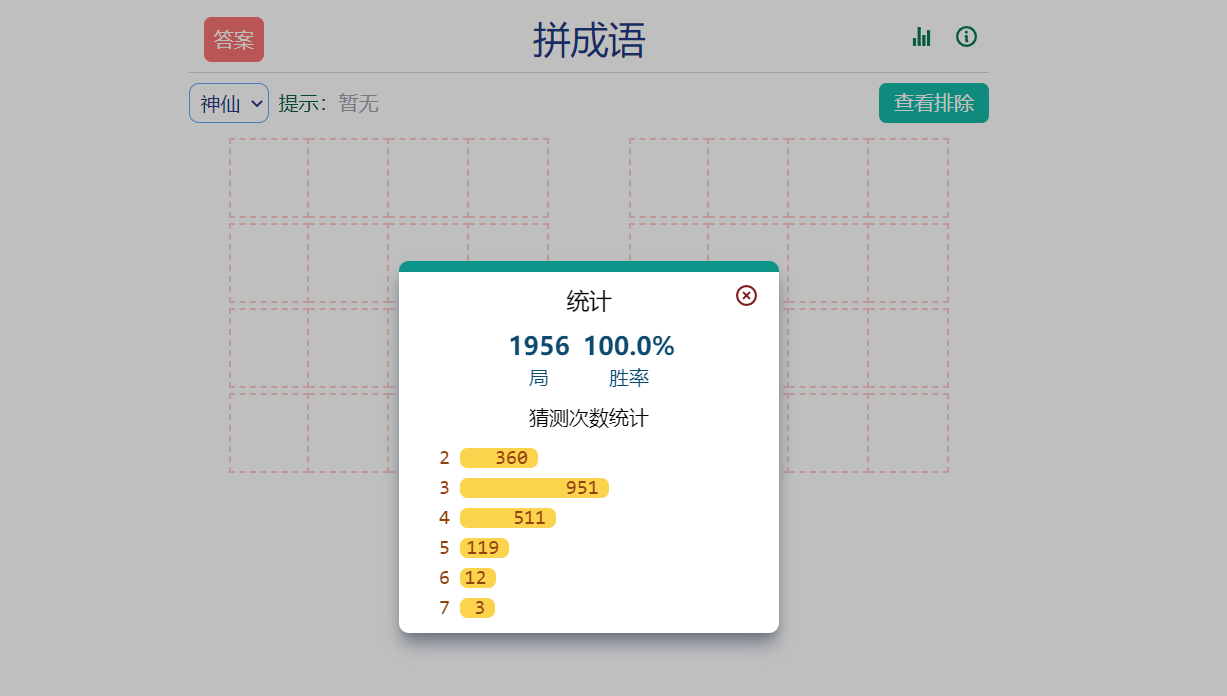
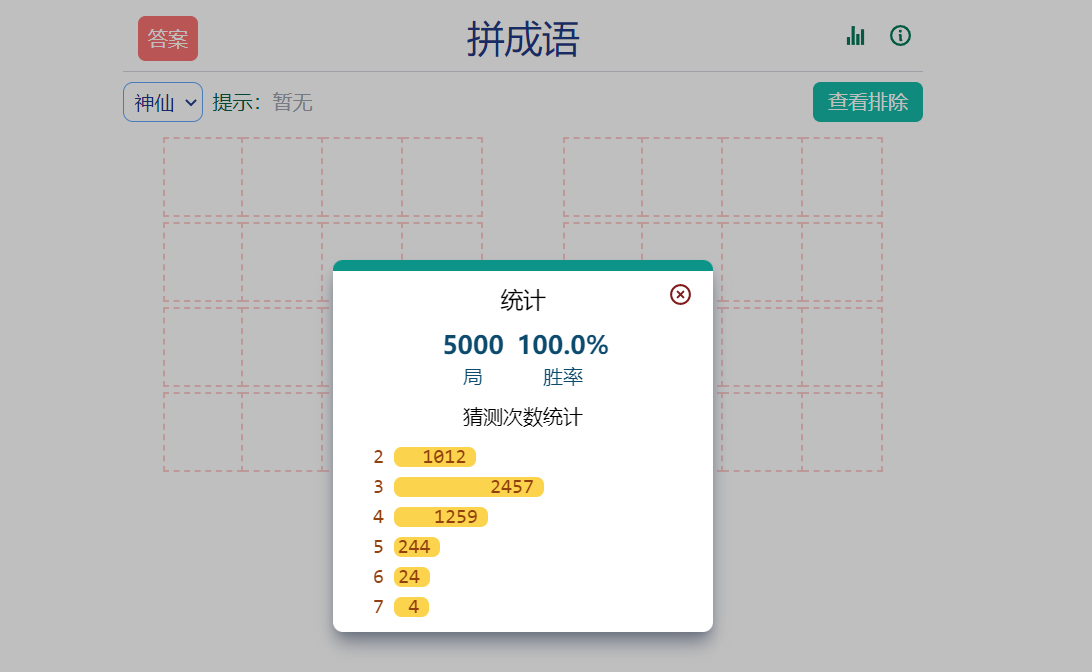
修改 readme

diff --git a/readme.md b/readme.md
@@ -1,6 +1,3 @@
-
-## 让我们开始！
-
 ## 介绍：
 这是一个用于解决类似[汉兜](https://handle.antfu.me)、[拼成语](https://allanchain.github.io/chinese-wordle/) 这类应用的程序
 
@@ -19,9 +16,24 @@
 ```
 
 ## 使用说明
+运行 `guesser.py`
 
+>  如果你猜的成语中某一个声母或韵母(对于汉兜来说，还包含汉字与音调)：
+>  - 位置与待猜成语相同，它就会被标成绿色，我们用 **2** 来表示
+>  - 出现在待猜成语中但位置错误，就是黄色，我们用 **1** 来表示
+>  - 压根没出现在待猜成语中，就是灰色，我们用 **0** 来表示
+>
+> 根据上述规则，以汉兜为例：输入 `无忧无虑` 得到4个字对应的声母、韵母等情况
+>
+>  - 声母应该为 `0000`，由于默认是 `0000`，我们可以不填
+>  - 韵母应该为 `0100`
+>  - 汉字应该为 `0000`，由于默认是 `0000`，不填
+>  - 声调应该为 `0100`
+>
+> 敲下回车后会返回匹配的条目数以及出现频率最高的前20个成语备选
+> 重复上述操作，应该会在3-4次内得到答案 
 
-|*|程序|结果      |
+|*|程序|结果|
 | ----| ---- | ---- |
 |[汉兜](https://handle.antfu.me)|![ex1](./img/ex1.png) | ![ex2](./img/ex2.png) |
 |[拼成语](https://allanchain.github.io/chinese-wordle/)|![ex3](./img/ex3.png) | ![ex4](./img/ex4.png) |
@@ -30,7 +42,10 @@
 基于[Playwright](https://playwright.dev/) 的自动化 ~~无情的~~ 猜成语机器
 ![gif1](./img/gif1.gif) 
 使用idiom-guesser基本能在3-4次内猜出成语
+
 ![ex5](./img/ex5.png) 
+5000次的数据，应该有较强的参考性
+
 ### 注意
 使用下列代码将启用浏览器无痕模式
 
@@ -50,5 +65,4 @@
     )
     page = browser.new_page()
 ```
-
 
